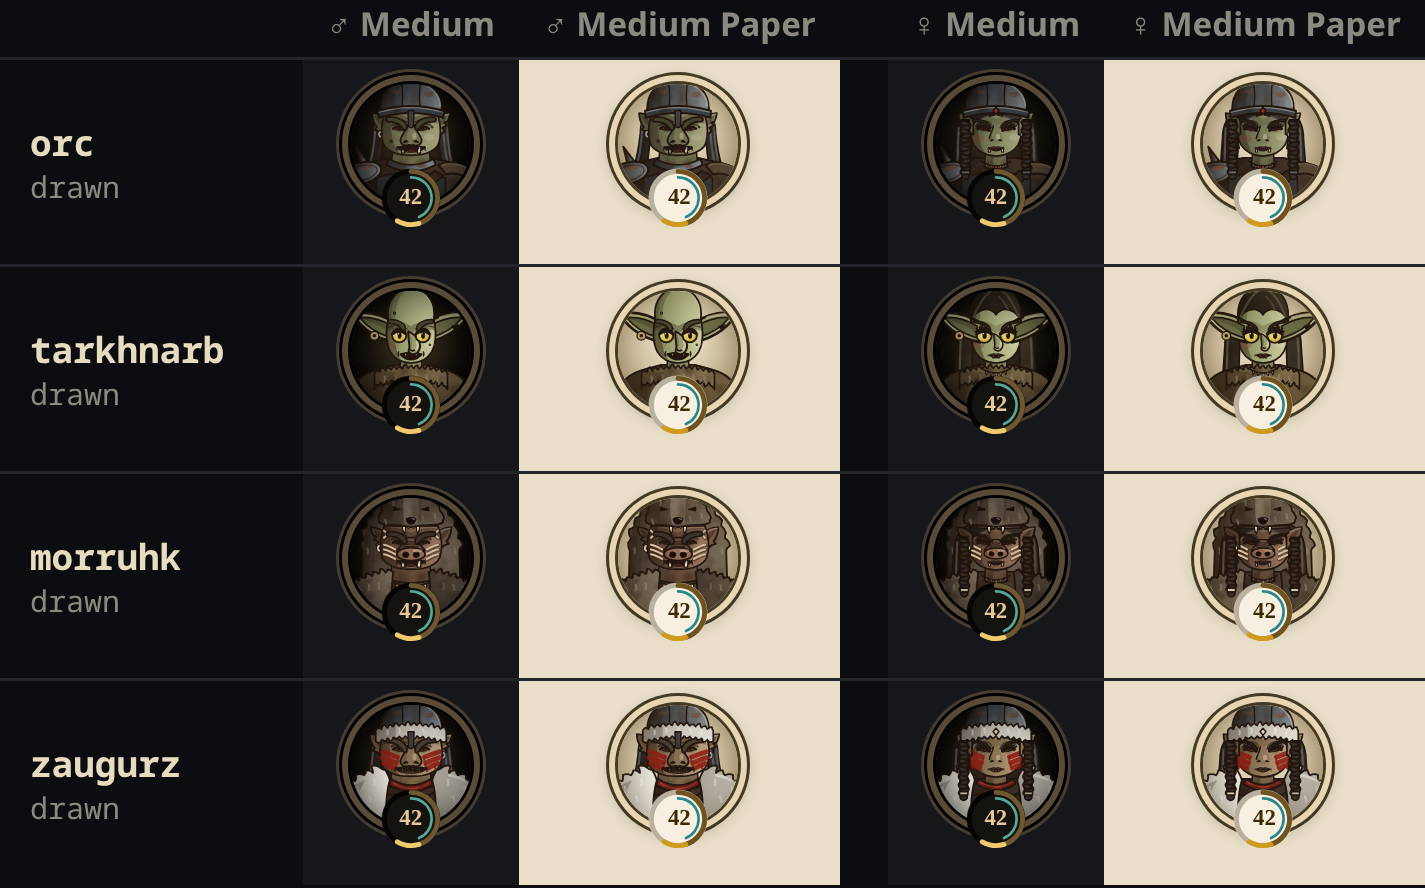
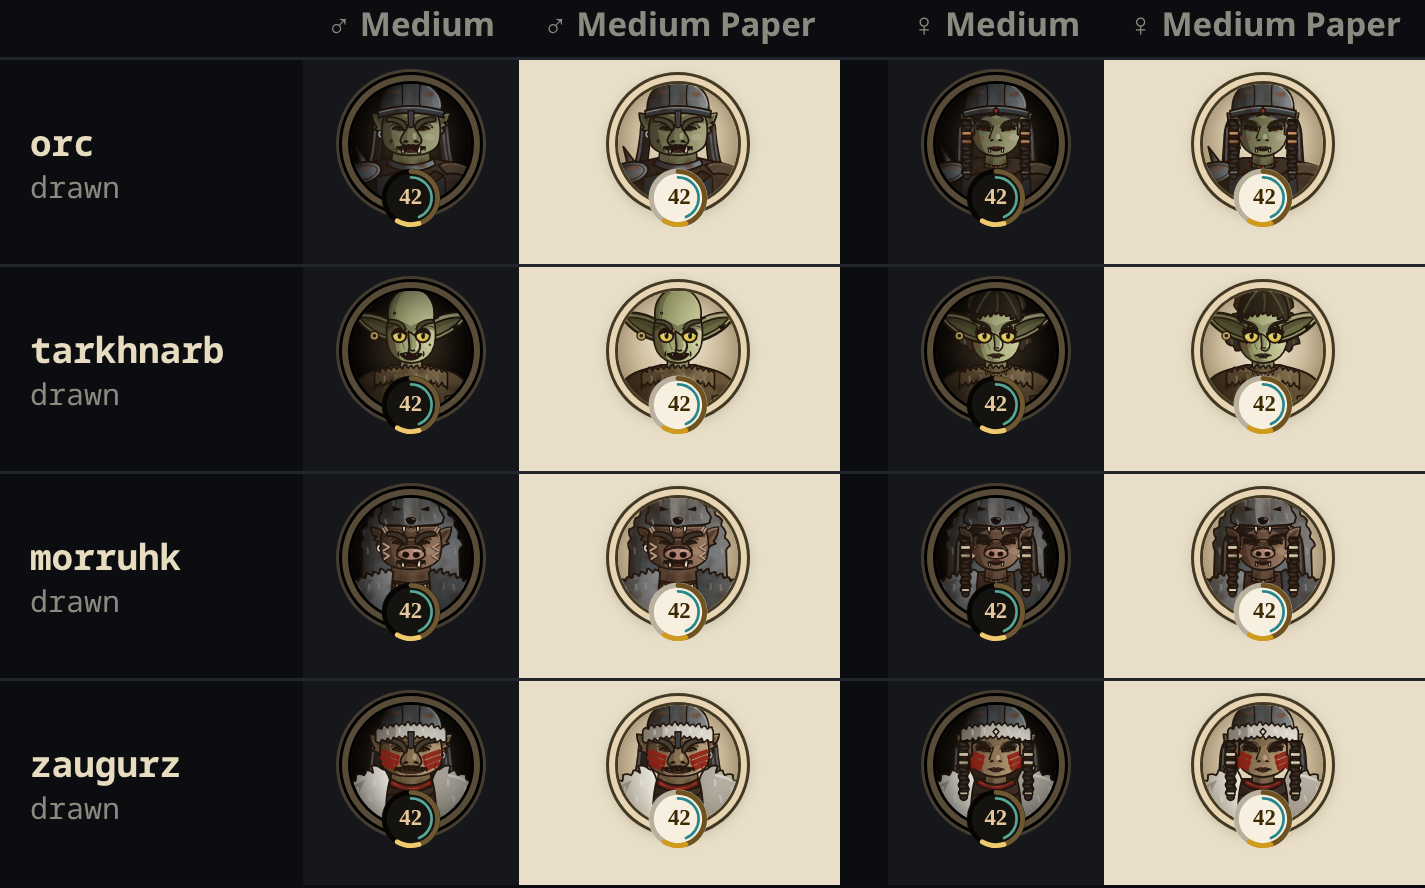
fix(portraits): the orcs after the consistency review
Morruhk: a wolf-grey pelt, a pinker snout, the raised scars moved to the
outer cheeks, brows and temples in a pale skin tone with a dark edge.
Orc and Morruhk women: a narrower jaw and broad rings high on the braids,
above the level ring. Tarkhnarb: shadow-side hatching and a brown-green
tone on face and ears, woven sacking with a patch; the woman's hair short,
thin and tufty as the goblin's.

Claude-Session: https://claude.ai/code/session_01Fx3riSE2eMf87VxUMhb19J

diff --git a/notes/research/portraits/stage/draw/orcs.ts b/notes/research/portraits/stage/draw/orcs.ts
@@ -55,8 +55,8 @@ const defs = (c: Ctx, s: Spec): string =>
   baseDefs(c) + lg(c, 's', s.skin) + lg(c, 'h', [s.hair[0], s.hair[1]]) + lg(c, 'k', IRON, .25) + lg(c, 'l', s.cloth) + lg(c, 'w', s.fur) +
   `<radialGradient id="${c.id('y')}" cx=".45" cy=".4" r=".7"><stop offset="0" stop-color="#f2e48a"/><stop offset=".6" stop-color="#dcc452"/><stop offset="1" stop-color="#a88a2c"/></radialGradient><clipPath id="${c.id('gc')}"><circle r="12"/></clipPath>` +
   (c.med
-    ? `<pattern id="${c.id('sc')}" patternUnits="userSpaceOnUse" width="4" height="4"><rect width="4" height="4" fill="#8a9197" opacity=".12"/></pattern>`
-    : `<pattern id="${c.id('sc')}" patternUnits="userSpaceOnUse" width="9" height="7"><path d="M0,0Q4.5,8 9,0M-4.5,3.5Q0,11.5 4.5,3.5M4.5,3.5Q9,11.5 13.5,3.5" fill="none" stroke="#8a9197" stroke-width=".8" opacity=".5"/></pattern>`);
+    ? `<pattern id="${c.id('sc')}" patternUnits="userSpaceOnUse" width="4" height="4"><rect width="4" height="4" fill="#8a9197" opacity=".12"/></pattern><pattern id="${c.id('wv')}" patternUnits="userSpaceOnUse" width="4" height="4"><rect width="4" height="4" fill="${INK}" opacity=".08"/></pattern>`
+    : `<pattern id="${c.id('wv')}" patternUnits="userSpaceOnUse" width="5" height="5" patternTransform="rotate(8)"><path d="M0,1H5M1.5,0V5M0,3.5H5M4,0V5" fill="none" stroke="${INK}" stroke-width=".5" opacity=".32"/></pattern><pattern id="${c.id('sc')}" patternUnits="userSpaceOnUse" width="9" height="7"><path d="M0,0Q4.5,8 9,0M-4.5,3.5Q0,11.5 4.5,3.5M4.5,3.5Q9,11.5 13.5,3.5" fill="none" stroke="#8a9197" stroke-width=".8" opacity=".5"/></pattern>`);
 
 // ---- fur: tufted edges ----
 /** A tufted run through `pts`: each step hooks out to the left of the direction of travel (outward on a clockwise outline). */
@@ -123,8 +123,10 @@ const bust = (c: Ctx, s: Spec): string => {
   const scale = `<path d="M-60,150L-58,84Q0,66 58,84L60,150Z" fill="#2a2b2e" stroke-width="1.2"/><path d="M-60,150L-58,84Q0,66 58,84L60,150Z" fill="${c.url('sc')}" stroke="none"/><path d="M-60,150L-58,84Q-30,74 -20,72C-34,92 -38,120 -36,150Z" fill="${c.url('p')}" stroke="none"/>`;
   const strap = `<path d="M40,72L56,80L-30,150L-54,150Z" fill="#3a2a1c" stroke-width="1.1"/>${c.fine('<g fill="#9aa0a4" stroke-width=".5"><circle cx="40" cy="84" r="1.9"/><circle cx="20" cy="101" r="1.9"/><circle cx="0" cy="118" r="1.9"/><circle cx="-20" cy="135" r="1.9"/></g>')}`;
   if (s.house === 'tark') {
-    // stolen sacking with fat crooked stitches, a strap with a looted ring, a ragged fur collar
-    out += `<path d="M1,80V150" fill="none" stroke-width=".9"/>${c.fine('<path d="M-4,90l10,5M-4,102l10,5M-4,114l10,5M-4,126l10,5" fill="none" stroke="#d6c59a" stroke-width="1.3"/>')}` +
+    // stolen sacking with fat crooked stitches, a sewn-on patch, a strap with a looted ring, a ragged fur collar
+    out += `<path d="${B}" fill="${c.url('wv')}" stroke="none"/><path d="${wx('M-124,150L-122,100C-116,80 -104,70 -90,64C-100,84 -104,116 -102,150Z', w)}" fill="${c.url('q')}" stroke="none"/>` +
+      `<path d="M58,104L88,98L92,128L62,134Z" fill="#6a5a3c" stroke-width="1"/><path d="M58,104L88,98L92,128L62,134Z" fill="${c.url('wv')}" stroke="none"/>${c.fine('<path d="M61,108l3,-2M66,107l2,-3M72,106l2,-3M78,104l2,-3M84,103l2,-3M90,110l-3,1M90,118l-3,1M64,132l2,-3M72,131l2,-3M80,130l2,-3" fill="none" stroke="#d6c59a" stroke-width=".9"/>')}` +
+      `<path d="M1,80V150" fill="none" stroke-width=".9"/>${c.fine('<path d="M-4,90l10,5M-4,102l10,5M-4,114l10,5M-4,126l10,5" fill="none" stroke="#d6c59a" stroke-width="1.3"/>')}` +
       `<path d="M30,66L44,72L-26,150L-44,150Z" fill="#2e2216" stroke-width="1.1"/><rect x="-4" y="104" width="13" height="12" rx="2" transform="rotate(-46 2.5 110)" fill="none" stroke="#b9a25e" stroke-width="2"/>` +
       neck(c, s);
     const top = along(-62, 62, 13, (x) => 56 + 9 * (x / 62) ** 2);
@@ -178,11 +180,20 @@ const sideHair = (c: Ctx, s: Spec): string => {
   return `<path d="${L}" fill="${c.url('h')}" stroke-width="1.1"/><path d="${L}" fill="${c.url('p')}" stroke="none"/><path d="${mir(L)}" fill="${dark(s.hair[1], .08)}" stroke-width="1.1"/>` +
     strands(c, wx('M-56,-18C-60,6 -60,30 -66,56M-50,-10C-54,14 -54,36 -60,58M56,-18C60,6 60,30 66,56M50,-10C54,14 54,36 60,58', j), wx('M-60,-8C-62,16 -63,36 -68,54M60,-12C63,10 63,34 68,54M54,0C57,20 57,40 62,56', j), s.hair[2]);
 };
-/** The Tarkhnarb woman's lank hair over the bald crown, parted. */
+/** The Tarkhnarb woman's hair, as the goblin's: short, thin and wild, a ragged tuft round the head behind the ears. */
+const tarkBack = (c: Ctx, s: Spec): string => {
+  const pts = ([[-44, -40], [-52, -62], [-38, -84], [-14, -94], [10, -94], [34, -86], [52, -64], [48, -40], [58, -20], [62, 0], [56, 18], [40, 24], [-40, 24], [-56, 18], [-62, 0], [-58, -20], [-44, -40]] as [number, number][]).map(([x, y]) => [n(x * s.jaw), y] as [number, number]);
+  const H = `M${pts[0]![0]},${pts[0]![1]}` + tuft(pts, 7) + 'Z';
+  return `<path d="${H}" fill="${dark(s.hair[1], .05)}" stroke-width="1.1"/><path d="${wx('M-44,-40C-52,-62 -38,-84 -14,-94C-30,-76 -40,-50 -46,0C-50,10 -54,16 -56,18C-62,0 -62,-20 -44,-40Z', s.jaw)}" fill="${c.url('p')}" stroke="none"/>` +
+    strands(c, wx('M-50,-30C-56,-14 -58,2 -56,14M-40,-70C-50,-56 -54,-40 -54,-26M50,-30C56,-14 58,2 56,14M40,-70C50,-56 54,-40 54,-26', s.jaw), wx('M-56,-20C-60,-6 -60,6 -58,14M54,-24C58,-8 60,4 58,14M30,-84C42,-74 48,-60 50,-46', s.jaw), s.hair[2], .7);
+};
+/** Over the bald crown: thin hair with a ragged fringe of tufts. */
 const crownHair = (c: Ctx, s: Spec): string => {
-  const H = wx('M-47,-22C-52,-62 -30,-82 0,-82C30,-82 52,-62 47,-22C42,-38 28,-46 14,-44C7,-42 2,-38 0,-35C-2,-38 -7,-42 -14,-44C-28,-46 -42,-38 -47,-22Z', s.jaw);
-  return `<path d="${H}" fill="${c.url('h')}" stroke-width="1.1"/><path d="${wx('M-47,-22C-52,-62 -30,-82 -4,-82C-24,-72 -34,-54 -32,-40C-40,-36 -44,-30 -47,-22Z', s.jaw)}" fill="${c.url('p')}" stroke="none"/>` +
-    strands(c, wx('M-2,-80C-14,-74 -28,-60 -38,-38M-4,-72C-12,-64 -20,-54 -24,-44M2,-80C14,-74 28,-60 38,-38M4,-72C12,-64 20,-54 24,-44', s.jaw), wx('M-6,-78C-20,-70 -32,-54 -42,-32M8,-78C22,-70 34,-54 42,-32M6,-66C14,-58 20,-50 22,-44', s.jaw), s.hair[2], .8);
+  const fr = along(47, -47, 9, (x) => -40 + 14 * (x / 47) ** 2);
+  const H = wx(`M-47,-26C-52,-62 -30,-84 0,-84C30,-84 52,-62 47,-26` + tuft(fr, 5) + 'Z', s.jaw);
+  return `<path d="${H}" fill="${c.url('h')}" stroke-width="1.1"/><path d="${wx('M-47,-26C-52,-62 -30,-84 -4,-84C-24,-72 -32,-56 -30,-38C-38,-34 -44,-30 -47,-26Z', s.jaw)}" fill="${c.url('p')}" stroke="none"/>` +
+    strands(c, wx('M-2,-82C-12,-74 -24,-60 -30,-44M-4,-72C-10,-64 -14,-54 -16,-44M4,-82C14,-74 26,-60 32,-44M6,-72C12,-64 16,-54 18,-42', s.jaw), wx('M-6,-80C-18,-70 -28,-56 -36,-40M8,-80C20,-70 30,-56 38,-38M2,-70C4,-60 4,-50 2,-42', s.jaw), s.hair[2], .8) +
+    `<path d="M-6,-83C-8,-92 -14,-96 -20,-96M4,-84C6,-93 11,-98 17,-99M14,-82C19,-86 24,-87 29,-85" fill="none" stroke-width="${c.med ? .8 : 1}"/>`;
 };
 
 // ---- ears ----
@@ -192,7 +203,7 @@ const ear = (c: Ctx, s: Spec, sg: number): string => {
     // the goblin's vast bat ear, out to the rim
     const E = 'M-5,-12C12,-23 33,-29 52,-25C45,-12 28,6 -3,12Z';
     return `<g transform="translate(${n(34 * s.jaw * sg)},-4) scale(${1.32 * sg},1.32)"><path d="${E}" fill="${c.url('s')}" stroke-width="1.3"/><path d="M1,-9C14,-17 30,-21 43,-20C36,-11 23,0 2,6Z" fill="${dark(s.skin[0], .2)}" stroke-width=".8"/>
-${sg < 0 ? `<path d="M1,-9C14,-17 30,-21 43,-20C30,-15 16,-9 4,-2Z" fill="${c.url('p')}" stroke="none"/>` : `<path d="M14,-20C26,-24 38,-26 48,-24" fill="none" stroke="${light(s.skin[2], .4)}" stroke-width="1" opacity=".6"/>`}${c.fine('<path d="M8,-5C17,-10 26,-13 35,-15M9,1C16,-2 22,-6 28,-10" fill="none" stroke-width=".6" opacity=".7"/>')}
+<path d="M1,-9C14,-17 30,-21 43,-20C30,-15 16,-9 4,-2Z" fill="${c.url('p')}" stroke="none"/><path d="M-3,12C10,8 22,0 30,-6C22,4 10,10 -3,12Z" fill="${c.url('q')}" stroke="none"/>${sg < 0 ? `<path d="${E}" fill="#4a4626" opacity=".3" stroke="none"/><path d="${E}" fill="${c.url('p')}" stroke="none"/>` : `<path d="M14,-20C26,-24 38,-26 48,-24" fill="none" stroke="${light(s.skin[2], .4)}" stroke-width="1" opacity=".6"/>`}${c.fine('<path d="M8,-5C17,-10 26,-13 35,-15M9,1C16,-2 22,-6 28,-10" fill="none" stroke-width=".6" opacity=".7"/>')}
 ${sg > 0 ? '<path d="M30,-8.5L34,-4L37,-10.5" fill="#170f0a" stroke-width=".9"/>' : `<circle cx="24" cy="3.5" r="3.6" fill="none" stroke-width="2.2"/><circle cx="24" cy="3.5" r="3.6" fill="none" stroke="#b9a25e" stroke-width="1"/>`}</g>`;
   }
   const j = s.jaw, torn = (s.house === 'morr') === (sg < 0);
@@ -229,7 +240,7 @@ const face = (c: Ctx, s: Spec): string => {
     ? (c.fem ? '' : c.fine('<path d="M-17,-48C-6,-51 8,-51 18,-48M-11,-55C-4,-57 6,-57 12,-55" fill="none" stroke-width=".6" opacity=".6"/><path d="M-26,-62C-22,-56 -24,-50 -20,-44" fill="none" stroke="#5d6a38" stroke-width=".8" opacity=".7"/>') + `<circle cx="-28" cy="-38" r="1.8" fill="${s.skin[0]}" stroke-width=".7"/><circle cx="32" cy="16" r="1.5" fill="${s.skin[0]}" stroke-width=".6"/>`)
     : s.house === 'orc' && !c.fem ? `<circle cx="-34" cy="22" r="2" fill="${s.skin[0]}" stroke-width=".7"/><circle cx="36" cy="-2" r="1.5" fill="${s.skin[0]}" stroke-width=".6"/>` : '';
   const tmp = c.fem && s.house !== 'tark' ? temples(c, hairOf(c, s)) : '';
-  return `<path d="${F}" fill="${c.url('s')}" stroke-width="1.15"/>${domeSh}<path d="${sh}" fill="#3a2a18" opacity=".22" stroke="none"/><path d="${sh}" fill="${c.url('p')}" stroke="none"/><path d="${edge}" fill="${c.url('q')}" stroke="none"/>` +
+  return `<path d="${F}" fill="${c.url('s')}" stroke-width="1.15"/>${domeSh}<path d="${sh}" fill="${s.house === 'tark' ? '#4a4626' : '#3a2a18'}" opacity="${s.house === 'tark' ? .36 : .22}" stroke="none"/>${s.house === 'tark' ? `<path d="${wx('M-43,-28C-48,-8 -47,14 -39,28C-31,40 -16,46.5 0,47C-14,40 -22,24 -24,4C-25,-10 -24,-20 -22,-28Z', j)}" fill="#4a4626" opacity=".16" stroke="none"/><path d="${wx('M-20,30C-12,38 -4,42 6,42C2,46 -6,46 -14,42Z', j)}" fill="${c.url('p')}" stroke="none"/><path d="M-12,-6C-16,4 -16,14 -10,24" fill="none" stroke-width=".6" opacity=".5"/>` : ''}<path d="${sh}" fill="${c.url('p')}" stroke="none"/><path d="${edge}" fill="${c.url('q')}" stroke="none"/>` +
     `<ellipse cx="-30" cy="17" rx="10" ry="7" fill="#7a3a2c" opacity="${blush}" stroke="none"/><ellipse cx="31" cy="15" rx="9" ry="6" fill="${light(s.skin[2], .4)}" opacity=".3" stroke="none"/>` +
     ridge + lines + extra + (c.fem ? `<path d="${wx('M-30,38C-20,45 -8,47 0,47C10,47 22,44 30,38C22,46 10,50 0,50C-10,50 -22,46 -30,38Z', j)}" fill="#2a1a10" opacity=".25" stroke="none"/>` : '') +
     marks(c, s) + tmp;
@@ -238,16 +249,15 @@ const face = (c: Ctx, s: Spec): string => {
 /** The house marks on the face: the Morruhk's ritual scars, the Zaugurz's blood and scar. */
 const marks = (c: Ctx, s: Spec): string => {
   if (s.house === 'morr') {
-    // three slanted rows of raised pale cuts on each cheek, a chevron at each temple
-    const row = (sg: number): string => {
-      let d = '';
-      for (let k = 0; k < 3; k++) d += `M${n(sg * 46)},${4 + k * 8}C${n(sg * 40)},${5 + k * 8} ${n(sg * 34)},${8 + k * 8} ${n(sg * 27)},${12 + k * 8}`;
-      d += `M${n(sg * 46)},-20L${n(sg * 40)},-14L${n(sg * 46)},-8`;
-      return d;
+    // raised ritual cuts away from the snout: two chevrons on each outer cheek, a row of beads above each brow, slashes at the temples
+    const side = (sg: number): string => {
+      const X = (x: number): number => n(sg * x);
+      return `M${X(47)},2L${X(37)},8L${X(47)},14M${X(46)},18L${X(37)},23L${X(45)},28M${X(48)},-24L${X(42)},-14M${X(44)},-26L${X(38)},-16`;
     };
-    const d = row(-1) + row(1);
-    const dots = c.fine([-1, 1].map((sg) => [0, 1, 2, 3].map((k) => `<circle cx="${n(sg * (22 + k * 4))}" cy="${n(34 - k * 1.5)}" r="1.1"/>`).join('')).join(''));
-    return `<path d="${d}" fill="none" stroke="#3a2418" stroke-width="2.6" opacity=".55" transform="translate(.6,1)"/><path d="${d}" fill="none" stroke="#d8c2a0" stroke-width="${c.med ? 1.3 : 1.6}"/>${c.fine(`<path d="${d}" fill="none" stroke="#fff4dc" stroke-width=".5" opacity=".6" transform="translate(.4,-.5)"/>`)}<g fill="#d8c2a0" stroke-width=".4">${dots}</g>`;
+    const d = side(-1) + side(1);
+    const beads = [-1, 1].map((sg) => [0, 1, 2, 3].map((k) => `<circle cx="${n(sg * (14 + k * 6))}" cy="${n(-21.5 + k * .8)}" r="${c.med ? 1.6 : 1.3}"/>`).join('')).join('');
+    const raised = light(s.skin[2], .25);
+    return `<path d="${d}" fill="none" stroke="#2a180e" stroke-width="${c.med ? 2.2 : 2.8}" opacity=".7" transform="translate(.5,.9)"/><path d="${d}" fill="none" stroke="${raised}" stroke-width="${c.med ? 1.3 : 1.6}"/>${c.fine(`<path d="${d}" fill="none" stroke="#fff0d8" stroke-width=".45" opacity=".55" transform="translate(.4,-.5)"/>`)}<g fill="${raised}" stroke="#2a180e" stroke-width=".5">${beads}</g>`;
   }
   if (s.house === 'zaug') {
     // the rake in blood across both cheeks, with drips; a stitched scar over the nose
@@ -274,7 +284,7 @@ const nose = (c: Ctx, s: Spec): string => {
     const k = c.fem ? .84 : 1;
     return `<g transform="translate(0,${c.fem ? 2 : 0}) scale(${k})"><path d="M-8,-8C-10,2 -20,6 -24,14L24,14C20,6 10,2 8,-8Z" fill="${mid}" stroke-width="1.1"/><path d="M-8,-8C-10,2 -20,6 -24,14L-10,14C-8,6 -6,0 -3,-6Z" fill="${c.url('p')}" stroke="none"/>
 <path d="M-7,0Q0,-3 7,0M-9,4Q0,1 9,4M-12,8Q0,5 12,8" fill="none" stroke-width=".8" opacity=".8"/>
-<ellipse cx="0" cy="20" rx="24" ry="11" fill="${mix(sk1, '#c08a74', .35)}" stroke-width="1.2"/><path d="M-24,20C-24,26 -14,31 -2,31C-12,28 -18,24 -18,14C-22,15 -24,17 -24,20Z" fill="${c.url('p')}" stroke="none"/>
+<ellipse cx="0" cy="20" rx="24" ry="11" fill="${mix(sk1, '#d09a8e', .6)}" stroke-width="1.2"/><path d="M-24,20C-24,26 -14,31 -2,31C-12,28 -18,24 -18,14C-22,15 -24,17 -24,20Z" fill="${c.url('p')}" stroke="none"/>
 <ellipse cx="-9" cy="21" rx="5" ry="4.2" fill="#170d0b" stroke-width=".8" transform="rotate(14 -9 21)"/><ellipse cx="9" cy="21" rx="5" ry="4.2" fill="#170d0b" stroke-width=".8" transform="rotate(-14 9 21)"/>
 <ellipse cx="11" cy="14" rx="8" ry="2.6" fill="#f3dcc0" opacity=".4" stroke="none"/>${c.fine('<path d="M0,12v6M-22,24q-3,2 -2,6M22,24q3,2 2,6" fill="none" stroke-width=".6" opacity=".7"/>')}</g>`;
   }
@@ -413,16 +423,24 @@ const hairOf = (c: Ctx, s: Spec): HairO => ({
   braids: s.house === 'tark' ? undefined : { links: 12, sc: 1.3, x: 54 * s.jaw, top: s.house === 'morr' ? -10 : -16, ring: s.ring },
 });
 
+/** The women's ornament above the level ring: two broad rings high on each braid (copper for the base, bone for the Morruhk and Zaugurz). */
+const braidRings = (c: Ctx, s: Spec): string => {
+  const b = hairOf(c, s).braids;
+  if (!b) return '';
+  const X = b.x ?? 54, metal = s.house === 'orc' ? ['#8e5532', '#d8a070'] : [mix(BONE, '#8a7a5a', .4), BONE];
+  return [-1, 1].map((sg) => [6, 20].map((y) => `<rect x="${n(sg * X - 8.5)}" y="${y}" width="17" height="6.5" rx="1.6" fill="${metal[0]}" stroke-width="1"/><path d="M${n(sg * X - 6)},${y + 1.8}H${n(sg * X + 6)}" fill="none" stroke="${metal[1]}" stroke-width="1.3" opacity=".85"/>`).join('')).join('');
+};
+
 const draw = (s: Spec): Draw => (o) => {
   const c = ctx(o);
   const back = s.house === 'morr' ? pen(c, wargBack(c, s), false) : '';
-  const hair = c.fem ? longHair(c, hairOf(c, s)) : s.house === 'orc' || s.house === 'zaug' ? sideHair(c, s) : '';
+  const hair = c.fem ? (s.house === 'tark' ? tarkBack(c, s) : longHair(c, hairOf(c, s))) : s.house === 'orc' || s.house === 'zaug' ? sideHair(c, s) : '';
   const ears = pen(c, ear(c, s, -1) + ear(c, s, 1), true);
   const head = s.house === 'morr' ? pen(c, wargFace(c, s)) : s.house === 'tark' ? (c.fem ? pen(c, crownHair(c, s)) : pen(c, wisps(c))) : pen(c, cap(c, s)) + (s.house === 'zaug' ? pen(c, furRoll(c), true) : '') + pen(c, capFront(c, s));
   const body = back + pen(c, hair) + pen(c, bust(c, s), false) + (s.house === 'zaug' ? pen(c, snowMantle(c, s), true) : '') +
     (c.fem ? '' : ears) + pen(c, face(c, s), true) + (c.fem ? ears : '') +
     pen(c, mouth(c, s), true) + pen(c, nose(c, s), true) + pen(c, eyesOf(c, s), true) + head +
-    (c.fem ? pen(c, frontBraids(c, hairOf(c, s))) : '');
+    (c.fem ? pen(c, frontBraids(c, hairOf(c, s)) + braidRings(c, s)) : '');
   return svg(c, defs(c, s), body);
 };
 
@@ -436,7 +454,7 @@ const TARK: Spec = {
   eye: { lid: 3.4, low: 1.4, look: [.6, 0] }, brow: { fill: '#2c2a1c', hi: '#8a8a5c', rot: 18, dy: -8, sc: 1.02 }, jaw: .9, wide: .84, ring: '#b9a25e',
 };
 const MORR: Spec = {
-  ...BASE, house: 'morr', skin: ['#4e3a2e', '#7a5c48', '#a07e66'], hair: ['#1c1612', '#3e3028', '#8a7e70'], cloth: ['#2a1e16', '#46342a', '#62503e'], fur: ['#463a30', '#7e6e5c'], white: '#c8b884',
+  ...BASE, house: 'morr', skin: ['#4e3a2e', '#7a5c48', '#a07e66'], hair: ['#1c1612', '#3e3028', '#8a7e70'], cloth: ['#2a1e16', '#46342a', '#62503e'], fur: ['#3e4042', '#86888a'], white: '#c8b884',
   eye: { iris: '#a8601a', lid: 3, low: 1.6 }, brow: { fill: '#241c16', hi: '#7a6a5a', rot: 14, dy: 1.5, sc: 1.2 }, jaw: 1.04, wide: 1.06, ring: BONE,
 };
 const ZAUG: Spec = {
@@ -446,9 +464,9 @@ const ZAUG: Spec = {
 /** The women: the same house; brows and lids a little softer, the jaw narrower. */
 const fem = (s: Spec, eye: EyeO = {}): Spec => ({ ...s, eye: { ...s.eye, ...eye }, jaw: s.jaw * .96 });
 const FEM: Readonly<Record<House, Spec>> = {
-  orc: fem(BASE, { lid: 2.4, low: 1.2 }),
+  orc: { ...fem(BASE, { lid: 2.4, low: 1.2 }), jaw: .92 },
   tark: fem({ ...TARK, jaw: .94 }, { lid: 3 }),
-  morr: fem(MORR, { lid: 3, low: 1.4 }),
+  morr: { ...fem(MORR, { lid: 3, low: 1.4 }), jaw: .96 },
   zaug: fem(ZAUG, { lid: 1.6, low: 1 }),
 };
 const pair = (m: Spec): Draw => { const dm = draw(m), df = draw(FEM[m.house]); return (o) => (o.sex === 'female' ? df(o) : dm(o)); };
